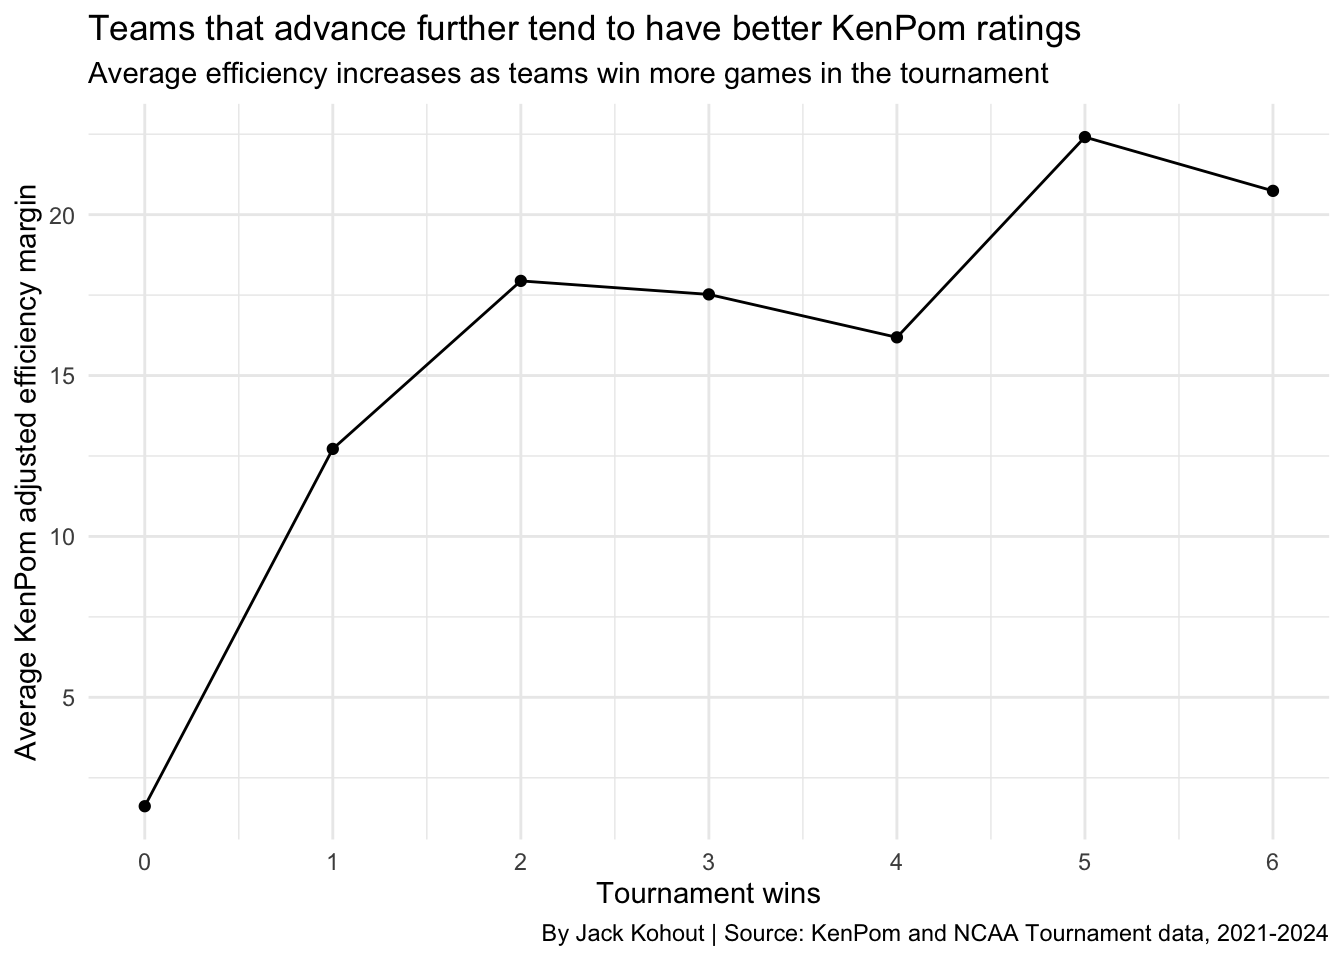
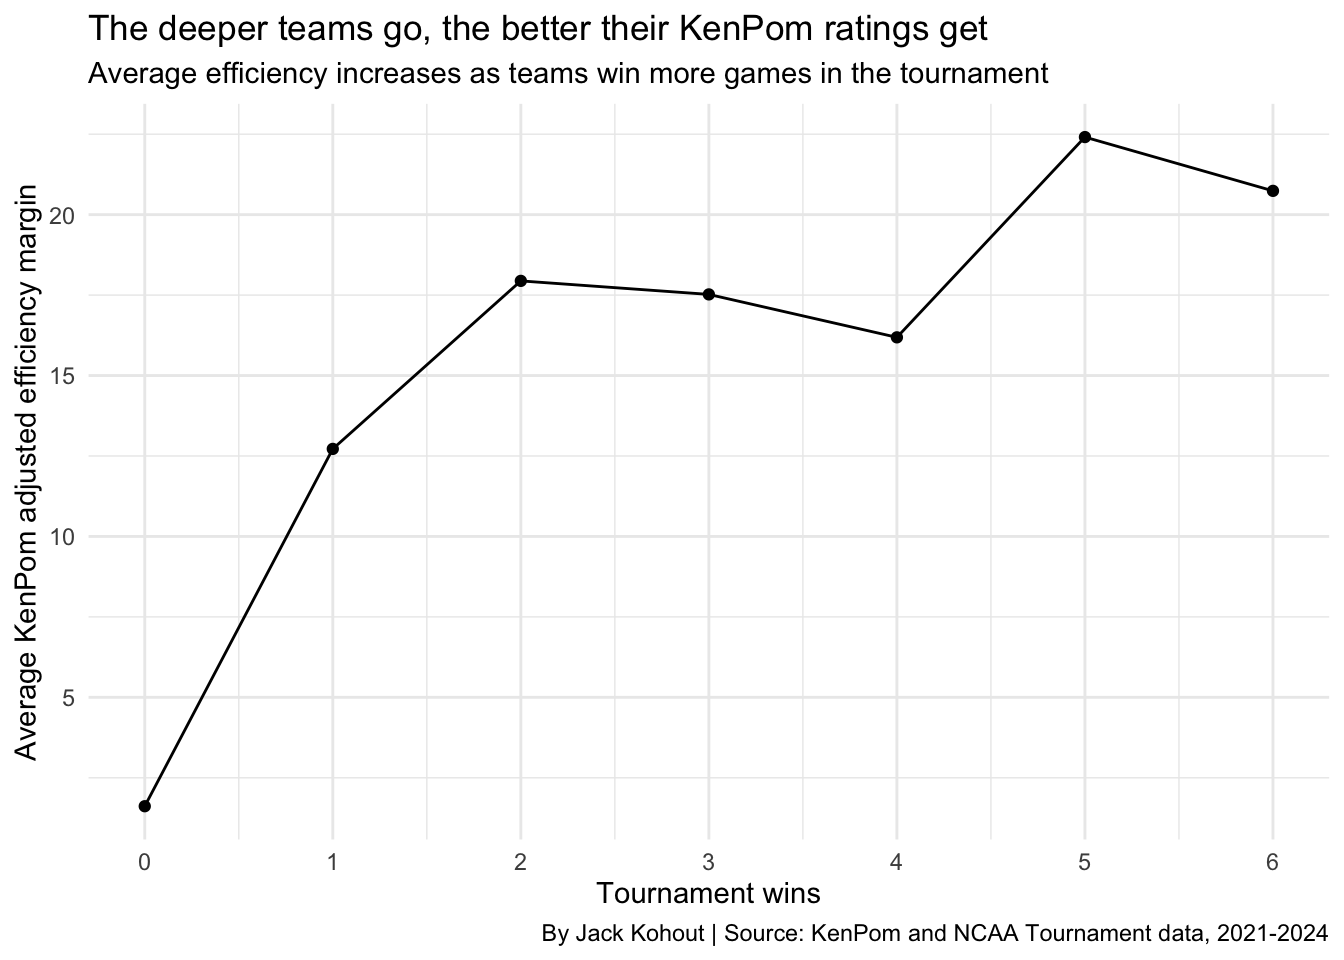
Final

Changed region(s): [[0.0938, 0.0, 0.8125, 0.0625]]

diff --git a/posts/NCAA-Basketball-March-Madness-Kenpom/index.html b/posts/NCAA-Basketball-March-Madness-Kenpom/index.html
@@ -232,7 +232,7 @@ pre > code.sourceCode > span > a:first-child::before { text-decoration: underlin
 <span id="cb2-11"><a href="#cb2-11" aria-hidden="true" tabindex="-1"></a>  <span class="fu">ggplot</span>(<span class="fu">aes</span>(<span class="at">x =</span> group, <span class="at">y =</span> avg_wins)) <span class="sc">+</span></span>
 <span id="cb2-12"><a href="#cb2-12" aria-hidden="true" tabindex="-1"></a>  <span class="fu">geom_col</span>(<span class="at">fill =</span> <span class="st">"steelblue"</span>) <span class="sc">+</span></span>
 <span id="cb2-13"><a href="#cb2-13" aria-hidden="true" tabindex="-1"></a>  <span class="fu">labs</span>(</span>
-<span id="cb2-14"><a href="#cb2-14" aria-hidden="true" tabindex="-1"></a>    <span class="at">title =</span> <span class="st">"Better teams win more games in March"</span>,</span>
+<span id="cb2-14"><a href="#cb2-14" aria-hidden="true" tabindex="-1"></a>    <span class="at">title =</span> <span class="st">"Top KenPom teams clearly win more games in March"</span>,</span>
 <span id="cb2-15"><a href="#cb2-15" aria-hidden="true" tabindex="-1"></a>    <span class="at">subtitle =</span> <span class="st">"Teams with stronger KenPom ratings consistently win more tournament games"</span>,</span>
 <span id="cb2-16"><a href="#cb2-16" aria-hidden="true" tabindex="-1"></a>    <span class="at">x =</span> <span class="st">"Team ADJEM"</span>,</span>
 <span id="cb2-17"><a href="#cb2-17" aria-hidden="true" tabindex="-1"></a>    <span class="at">y =</span> <span class="st">"Average tournament wins"</span>,</span>
@@ -274,7 +274,7 @@ pre > code.sourceCode > span > a:first-child::before { text-decoration: underlin
 <span id="cb3-9"><a href="#cb3-9" aria-hidden="true" tabindex="-1"></a>  <span class="fu">geom_point</span>() <span class="sc">+</span></span>
 <span id="cb3-10"><a href="#cb3-10" aria-hidden="true" tabindex="-1"></a>  <span class="fu">scale_x_continuous</span>(<span class="at">breaks =</span> <span class="dv">0</span><span class="sc">:</span><span class="dv">6</span>) <span class="sc">+</span></span>
 <span id="cb3-11"><a href="#cb3-11" aria-hidden="true" tabindex="-1"></a>  <span class="fu">labs</span>(</span>
-<span id="cb3-12"><a href="#cb3-12" aria-hidden="true" tabindex="-1"></a>    <span class="at">title =</span> <span class="st">"Teams that advance further tend to have better KenPom ratings"</span>,</span>
+<span id="cb3-12"><a href="#cb3-12" aria-hidden="true" tabindex="-1"></a>    <span class="at">title =</span> <span class="st">"The deeper teams go, the better their KenPom ratings get"</span>,</span>
 <span id="cb3-13"><a href="#cb3-13" aria-hidden="true" tabindex="-1"></a>    <span class="at">subtitle =</span> <span class="st">"Average efficiency increases as teams win more games in the tournament"</span>,</span>
 <span id="cb3-14"><a href="#cb3-14" aria-hidden="true" tabindex="-1"></a>    <span class="at">x =</span> <span class="st">"Tournament wins"</span>,</span>
 <span id="cb3-15"><a href="#cb3-15" aria-hidden="true" tabindex="-1"></a>    <span class="at">y =</span> <span class="st">"Average KenPom adjusted efficiency margin"</span>,</span>
@@ -317,8 +317,8 @@ pre > code.sourceCode > span > a:first-child::before { text-decoration: underlin
 <span id="cb4-21"><a href="#cb4-21" aria-hidden="true" tabindex="-1"></a>  <span class="fu">scale_x_reverse</span>() <span class="sc">+</span></span>
 <span id="cb4-22"><a href="#cb4-22" aria-hidden="true" tabindex="-1"></a>  <span class="fu">scale_y_reverse</span>() <span class="sc">+</span></span>
 <span id="cb4-23"><a href="#cb4-23" aria-hidden="true" tabindex="-1"></a>  <span class="fu">labs</span>(</span>
-<span id="cb4-24"><a href="#cb4-24" aria-hidden="true" tabindex="-1"></a>    <span class="at">title =</span> <span class="st">"Championship teams are and have to be elite on both ends"</span>,</span>
-<span id="cb4-25"><a href="#cb4-25" aria-hidden="true" tabindex="-1"></a>    <span class="at">subtitle =</span> <span class="st">"Recent champions rank near the top in both offense and defense"</span>,</span>
+<span id="cb4-24"><a href="#cb4-24" aria-hidden="true" tabindex="-1"></a>    <span class="at">title =</span> <span class="st">"Every champion fits the same elite profile"</span>,</span>
+<span id="cb4-25"><a href="#cb4-25" aria-hidden="true" tabindex="-1"></a>    <span class="at">subtitle =</span> <span class="st">"Recent champions rank near the top in both offense and defense rankings"</span>,</span>
 <span id="cb4-26"><a href="#cb4-26" aria-hidden="true" tabindex="-1"></a>    <span class="at">x =</span> <span class="st">"Adjusted offensive rank (ADJOR)"</span>,</span>
 <span id="cb4-27"><a href="#cb4-27" aria-hidden="true" tabindex="-1"></a>    <span class="at">y =</span> <span class="st">"Adjusted defensive rank (ADJDR)"</span>,</span>
 <span id="cb4-28"><a href="#cb4-28" aria-hidden="true" tabindex="-1"></a>    <span class="at">caption =</span> <span class="st">"By Jack Kohout | Source: KenPom and NCAA Tournament data, 2021-2024"</span></span>

diff --git a/index.html b/index.html
@@ -210,7 +210,7 @@ window.Quarto = {
 
 <div class="quarto-listing quarto-listing-container-default" id="listing-listing">
 <div class="list quarto-listing-default">
-<div class="quarto-post image-right" data-index="0" data-categories="TkNBQSUyQ0Jhc2tldGJhbGwlMkNNYXJjaC1NYWRuZXNzJTJDS2VucG9t" data-listing-date-sort="1776834000000" data-listing-file-modified-sort="1777308149013" data-listing-date-modified-sort="NaN" data-listing-reading-time-sort="5" data-listing-word-count-sort="967">
+<div class="quarto-post image-right" data-index="0" data-categories="TkNBQSUyQ0Jhc2tldGJhbGwlMkNNYXJjaC1NYWRuZXNzJTJDS2VucG9t" data-listing-date-sort="1776834000000" data-listing-file-modified-sort="1777308479137" data-listing-date-modified-sort="NaN" data-listing-reading-time-sort="5" data-listing-word-count-sort="966">
 <div class="thumbnail"><a href="./posts/NCAA-Basketball-March-Madness-Kenpom/index.html" class="no-external">
 
 <img loading="lazy" src="./posts/NCAA-Basketball-March-Madness-Kenpom/graph.png" class="thumbnail-image">
